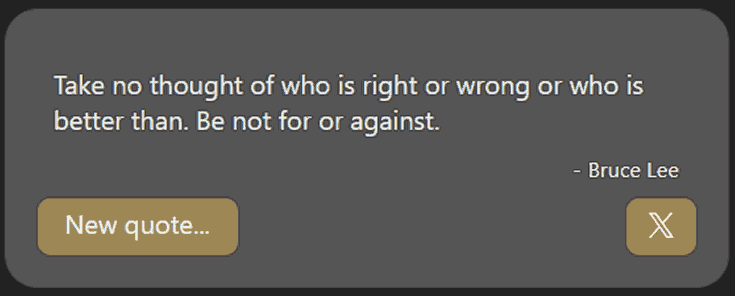
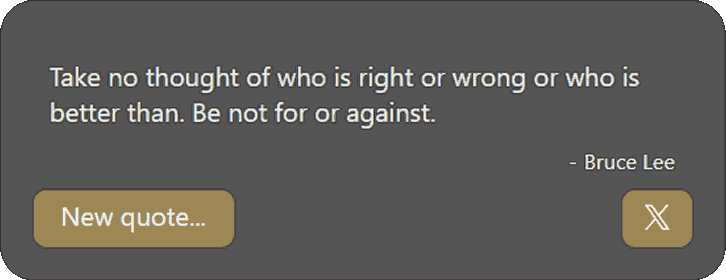
Some more styling

diff --git a/src/App.css b/src/App.css
@@ -24,7 +24,7 @@ html {
 }
 
 body {
-  height: 100%;
+  /* height: 100%; */
   font-family: 'Raleway', Arial, Helvetica, sans-serif;
   font-weight: 200;
   background-color: var(--color-background);
@@ -108,6 +108,8 @@ body {
 }
 
 .alpha-bkg {
+  z-index: 999;
+  display: none;
   pointer-events: all;
   position: absolute;
   top: 0;
@@ -135,6 +137,10 @@ body {
   width: 100%;
 }
 
+.alpha-bkg.is-open {
+  display: flex;
+}
+
 .modal {
   pointer-events: auto;
   position: absolute;
@@ -150,39 +156,48 @@ body {
   line-height: 0;
 }
 
-.thumbnail {
-  width: 90vw;
-}
-
-.project-detail {
+.detail {
   padding-top: 0;
   font-size: 2rem;
   display: flex;
   flex-direction: column;
+  justify-content: center;
+  gap: 10vh;
+}
+
+.detail h3 {
+  margin: 0;
+  font-size: 6vw;
+}
+
+figure {
+  margin: 0;
+  display: flex;
+  flex-direction: column;
+  gap: 5vh;
+}
+
+figure img {
+  width: 90vw;
+}
+
+figcaption {
+  margin: 0;
+  font-size: 4vw;
+}
+
+.detail .btn-panel {
+  display: flex;
   justify-content: space-around;
 }
 
-.project-detail h3 {
+.detail .btn-panel .button {
   margin: 0;
-}
-
-.project-detail p {
-  margin: 0;
-  font-size: 1.2rem;
-}
-
-.project-detail .btn-panel {
-  display: flex;
-  flex-direction: row;
-  justify-content: space-between;
-}
-
-.project-detail .btn-panel .button {
-  margin: 0;
-  font-size: 1.2rem;
+  font-size: 2vh;
   height: fit-content;
   width: fit-content;
   align-self: center;
+  border: 1px solid var(--color-secondary);
 }
 
 .page {
@@ -269,6 +284,72 @@ body {
     padding: 0;
   }
 
+  .alpha-bkg {
+    z-index: 99;
+    position: fixed;
+    top: 50%;
+    left: 50%;
+    height: 100vh;
+    transform: translate(-50%, -50%);
+  }
+
+  .detail {
+    gap: 50vh;
+    width: 90vw;
+    height: 90vh;
+    /* border: 1px dashed red; */
+  }
+
+  .detail::before {
+    content: '';
+    position: absolute;
+    top: 5vh;
+    left: 5vw;
+    right: 5vw;
+    bottom: 5vw;
+    border: 1px solid var(--color-secondary);
+    border-radius: 200px;
+    pointer-events: none;
+    z-index: -1;
+    background-color: var(--color-background-alpha);
+  }
+
+  .detail h3 {
+    font-size: 5vw;
+  }
+
+  figure {
+    position: absolute;
+    display: flex;
+    flex-direction: row;
+    align-items: center;
+  }
+
+  figure img {
+    width: 50%;
+    padding: 1vw;
+  }
+
+  figcaption {
+    font-size: 2vw;
+    width: 50%;
+  }
+
+  /* .detail .btn-panel {
+  } */
+
+  .detail .btn-panel .button {
+    font-size: 5vh;
+  }
+
+  .detail .btn-panel .button:first-of-type {
+    margin-left: 30px;
+  }
+
+  .detail .btn-panel .button:last-of-type {
+    margin-right: 10px;
+  }
+
   .link {
     font-size: 0.8rem;
   }
@@ -303,6 +384,7 @@ body {
   }
 
   .page {
+    overflow: visible;
     box-sizing: border-box;
     flex-direction: row;
     flex-wrap: wrap;
@@ -332,7 +414,6 @@ body {
     justify-content: space-between;
     bottom: 4vh;
     padding: 0 5vw;
-    z-index: 10;
   }
 
   #desktop-menu > a {

diff --git a/src/App.jsx b/src/App.jsx
@@ -42,6 +42,14 @@ function App() {
   return (
     <TranslationProvider>
       <LanguageSetup />
+      {aspectRatio === 'portrait' ? (
+        <MobileHeader showMenu={showMenu} setShowMenu={setShowMenu} />
+      ) : (
+        <>
+          <DesktopHeader />
+          <DesktopFooter />
+        </>
+      )}
       <Routes>
         <Route
           path="/"
@@ -63,14 +71,6 @@ function App() {
         />
         <Route path="*" element={<h1>Not Found</h1>} />
       </Routes>
-      {aspectRatio === 'portrait' ? (
-        <MobileHeader showMenu={showMenu} setShowMenu={setShowMenu} />
-      ) : (
-        <>
-          <DesktopHeader />
-          <DesktopFooter />
-        </>
-      )}
     </TranslationProvider>
   );
 }

diff --git a/src/pages/Projects.jsx b/src/pages/Projects.jsx
@@ -17,8 +17,10 @@ const Projects = () => {
       </a>
       <Modal>
         <h3>{translate('projects.item1.title')}</h3>
-        <img className="thumbnail" src={imgrqm} alt="Random quote machine" />
-        <p>{translate('projects.item1.description')}</p>
+        <figure>
+          <img src={imgrqm} alt="Random quote machine" />
+          <figcaption>{translate('projects.item1.description')}</figcaption>
+        </figure>
         <div className="btn-panel">
           <a href="#" className="link button">
             {translate('projects.item1.button1')}

diff --git a/src/components/MobileMenu.jsx b/src/components/MobileMenu.jsx
@@ -11,7 +11,7 @@ const MobileMenu = () => {
   const { language, setLanguage } = useContext(TranslationContext);
 
   return (
-    <div className="alpha-bkg">
+    <div className="alpha-bkg is-open">
       <LanguageButton language={language} setLanguage={setLanguage} />
       <nav className="modal menu">
         <MainMenu />

diff --git a/src/components/Modal.jsx b/src/components/Modal.jsx
@@ -2,7 +2,7 @@
 const Modal = ({ children }) => {
   return (
     <article className="alpha-bkg is-open">
-      <div className="modal project-detail">{children}</div>
+      <div className="modal detail">{children}</div>
     </article>
   );
 };
